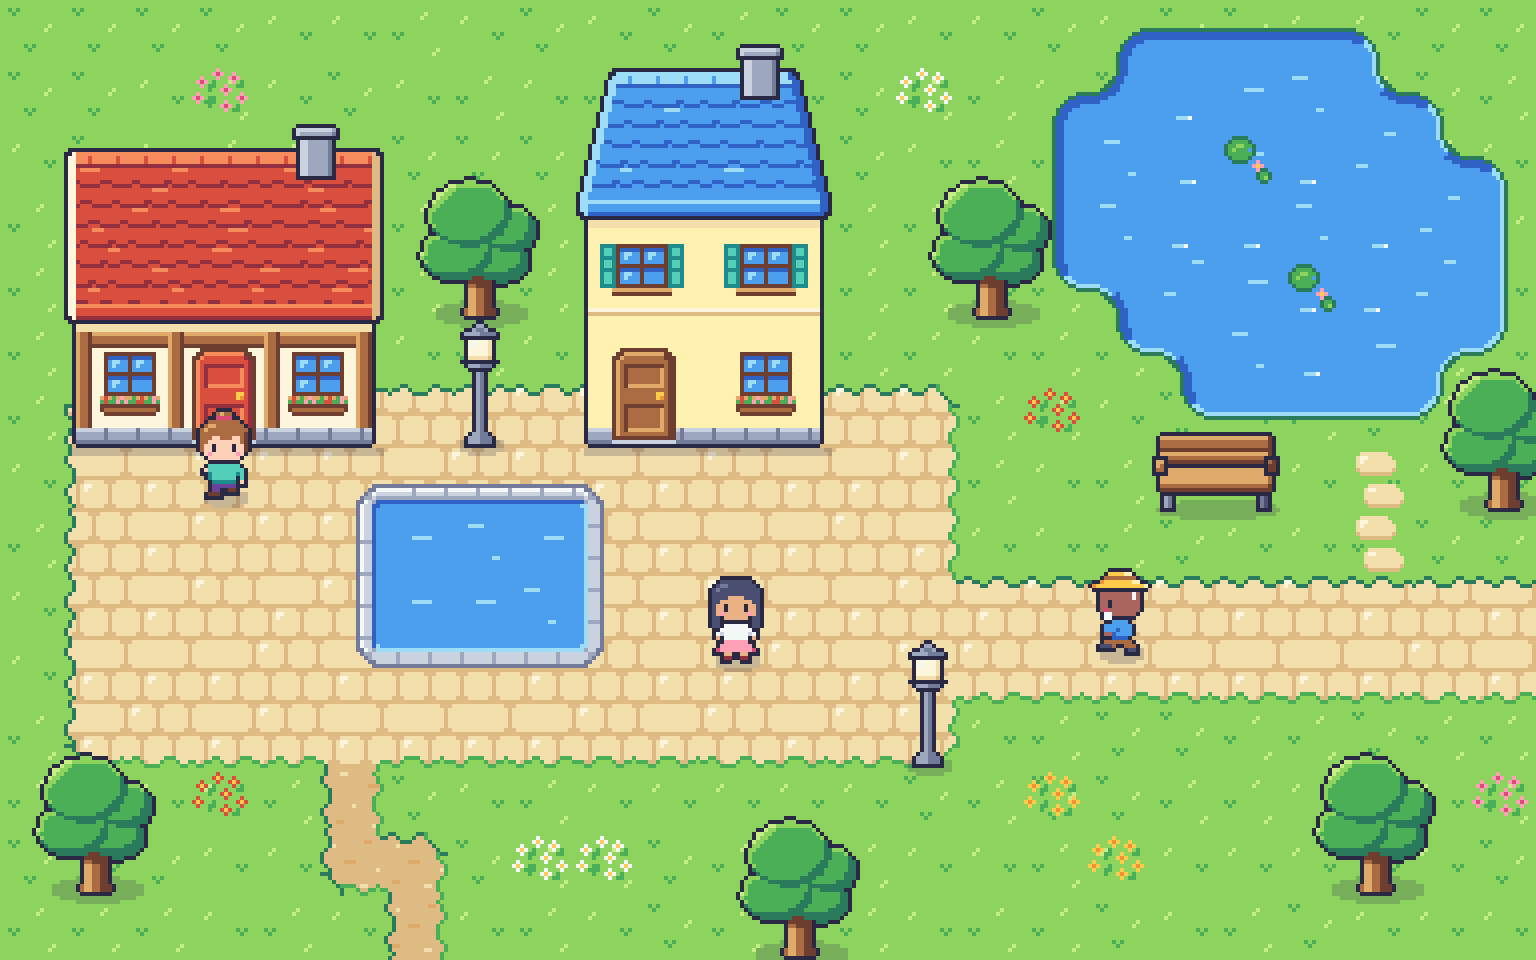
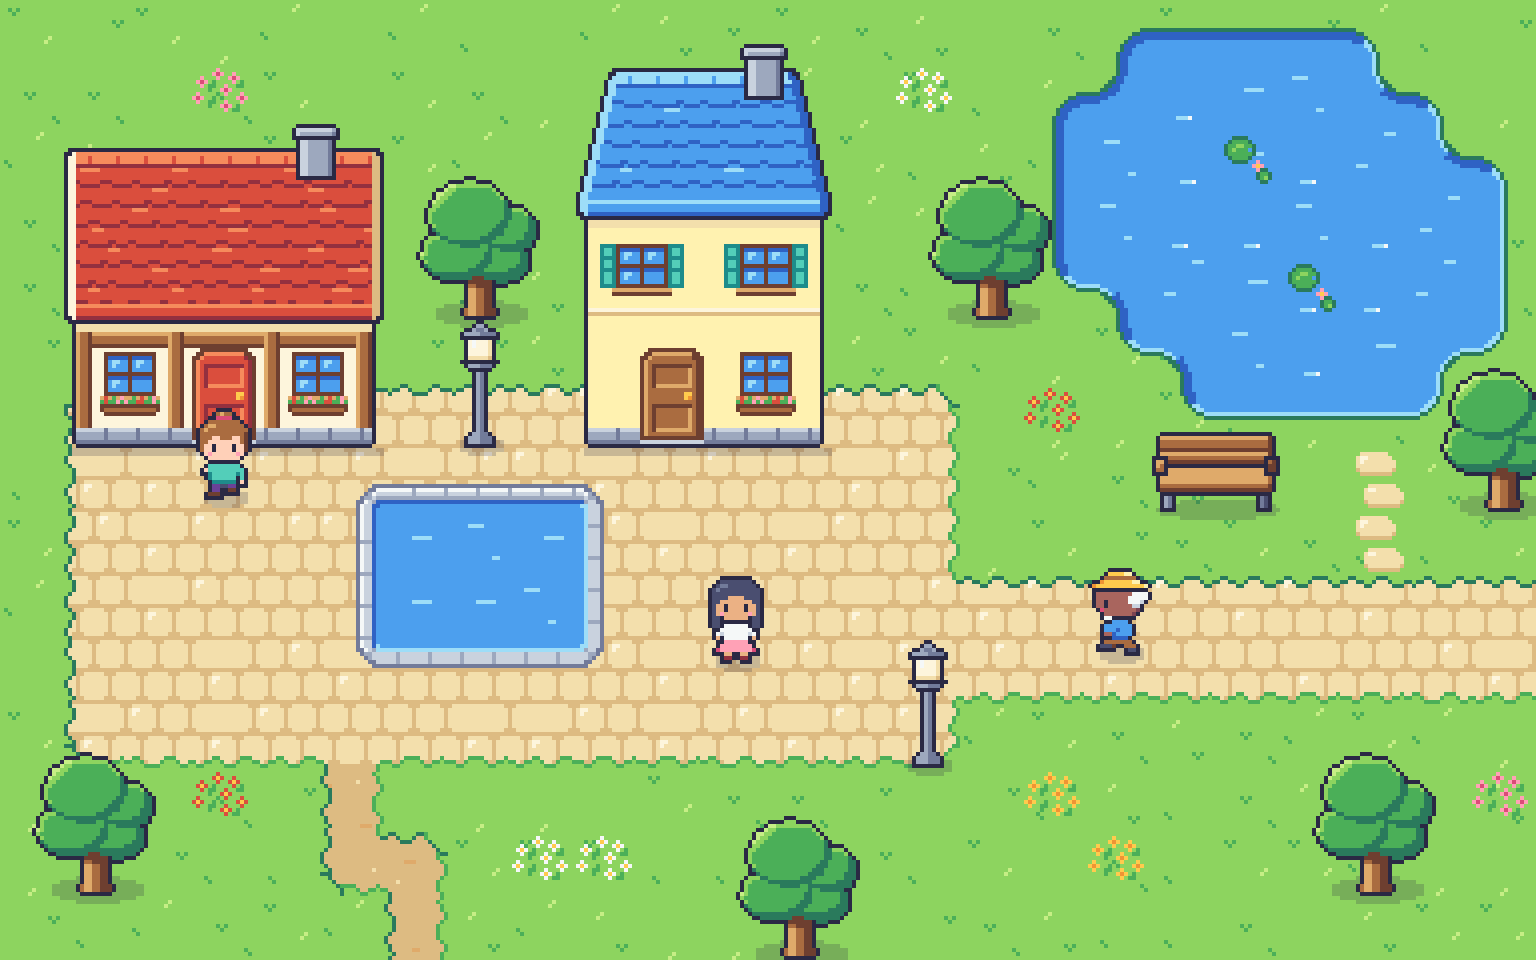
stylekey: find the window and door through the planner, wrap the cast into labelled rows; regenerate the style pictures

diff --git a/tools/stylekey.ts b/tools/stylekey.ts
@@ -16,6 +16,7 @@
  * and contact shadows are laid on top here, in raw palette colours.
  */
 import { art } from '../src/art';
+import { planBuilding, presetSpecs } from '../src/art/buildings';
 import { compileTheme, daylight, lutRgb, SLOTS, type Slot } from '../src/core/palette';
 import { LEGEND, type Sprite } from '../src/core/sprite';
 import { Surface } from '../src/core/surface';
@@ -168,18 +169,25 @@ function characters(): Surface {
   const CW = 20;
   const CH = 28;
   const GAP = 4;
+  const LABEL = 9;
+  // the cast wraps into rows of five people, each block labelled with its id
+  const PER_ROW = 5;
   const blockW = 6 * CW;
   const blockH = dirs.length * CH;
-  const out = new Surface(GAP + people.length * (blockW + GAP), blockH + GAP * 2).clear(col('cream.2'));
+  const rows = Math.ceil(people.length / PER_ROW);
+  const cols = Math.min(people.length, PER_ROW);
+  const out = new Surface(GAP + cols * (blockW + GAP), GAP + rows * (blockH + LABEL + GAP)).clear(col('cream.2'));
   people.forEach((def, i) => {
-    const x0 = GAP + i * (blockW + GAP);
-    out.rect(x0, GAP, 2 * CW, blockH, col('cream.1'));
-    out.rect(x0 + 2 * CW, GAP, 4 * CW, blockH, col('moss.2'));
+    const x0 = GAP + (i % PER_ROW) * (blockW + GAP);
+    const y0 = GAP + Math.floor(i / PER_ROW) * (blockH + LABEL + GAP);
+    out.rect(x0, y0, 2 * CW, blockH, col('cream.1'));
+    out.rect(x0 + 2 * CW, y0, 4 * CW, blockH, col('moss.2'));
+    drawText(out, lut, def.id, x0, y0 + blockH + 1);
     dirs.forEach((dir, j) => {
       const frames = [...def.idle[dir].slice(0, 2), ...def.walk[dir].slice(0, 4)];
       frames.forEach((s, k) => {
         const x = x0 + k * CW + CW / 2;
-        const y = GAP + j * CH + CH - 2;
+        const y = y0 + j * CH + CH - 2;
         shadow(out, x, y - 1, 5, 2);
         out.blit(s, x, y, lut);
       });
@@ -210,10 +218,13 @@ function pieces(): Surface {
   const cottage = onGround(art.props.house!.sprite, 'moss.2');
   const townhouse = onGround(art.props.townhouse!.sprite, 'moss.2');
   const ana = art.characters.ana!;
-  // cottage geometry: see buildCottage in src/art/buildings/index.ts (+2 for the margin)
+  // Find the window and the door where the building kit put them, so the crops follow the
+  // art when it changes. +2 for the margin of onGround; the crops keep a little wall around.
+  const plan = planBuilding(presetSpecs.find((s) => s.id === 'house')!);
+  const win = plan.windows[0]!;
   const cells: [string, Surface][] = [
-    ['window', crop(cottage, 9, 57, 19, 20)],
-    ['door', crop(cottage, 32, 56, 20, 27)],
+    ['window', crop(cottage, win.x, win.y, win.w + 4, win.h + 7)],
+    ['door', crop(cottage, plan.door.x, plan.door.y, plan.door.w + 4, 27)],
     ['gable roof', crop(cottage, 0, 6, 34, 26)],
     ['eave and wall', crop(cottage, 0, 38, 34, 22)],
     ['hip roof', crop(townhouse, 0, 6, 34, 26)],
